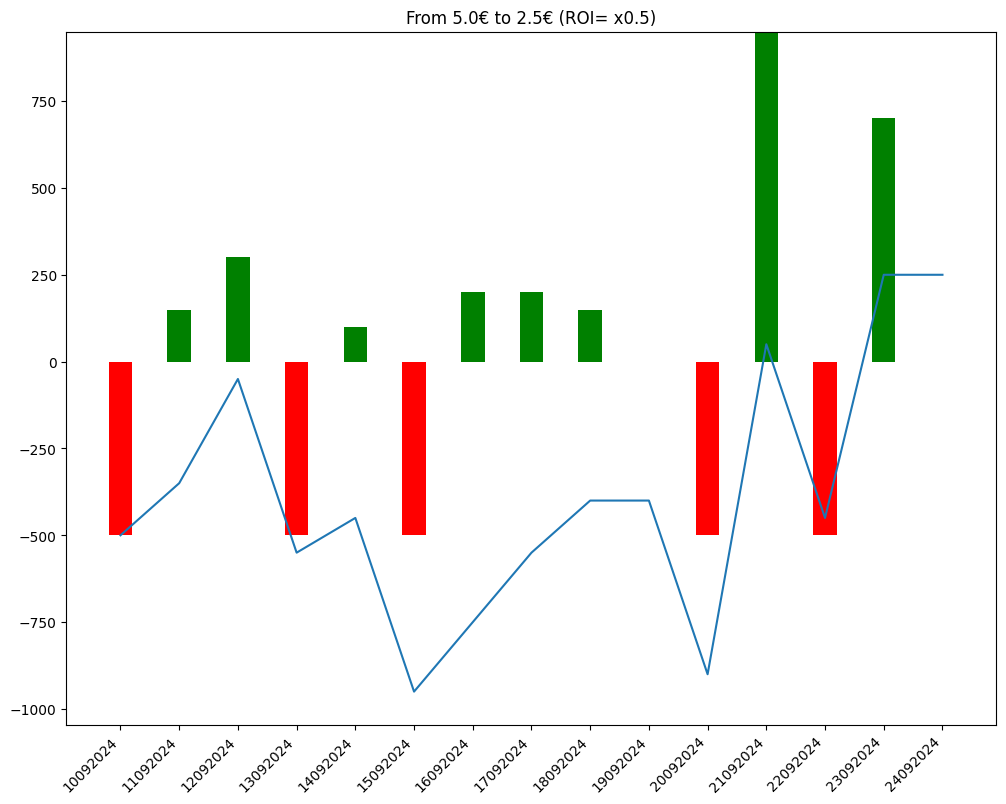
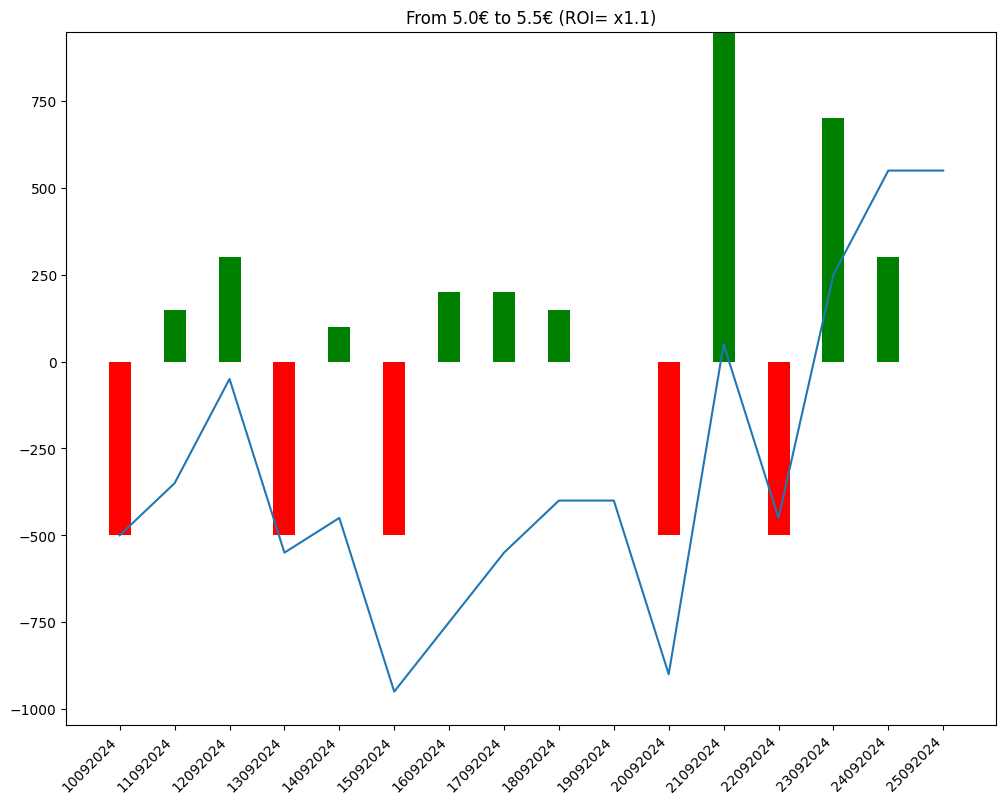
comment from python script

diff --git a/bethistory.html b/bethistory.html
@@ -86,7 +86,8 @@
             En observant la courbe 🤔, on peut avoir une idée visuelle de l'évolution des gains et ainsi évaluer le model utilisé 🧑🏫.
         </p>
         
-        <img src = "/candle.png" alt="candle chart"/><table><tr><td>Chevaux joués</td><td>Gains</td><td>URL Circuits</td></tr><tr><td>2 - MERANO</td><td>0</td><td><a href=https://www.pmu.fr/turf/24092024/r3/c3 target="_blank">https://www.pmu.fr/turf/24092024/r3/c3</a></td></tr>
+        <img src = "/candle.png" alt="candle chart"/><table><tr><td>Chevaux joués</td><td>Gains</td><td>URL Circuits</td></tr><tr><td>5 - WATHAB</td><td>0</td><td><a href=https://www.pmu.fr/turf/25092024/r4/c3 target="_blank">https://www.pmu.fr/turf/25092024/r4/c3</a></td></tr>
+<tr><td>2 - MERANO</td><td>+300</td><td><a href=https://www.pmu.fr/turf/24092024/r3/c3 target="_blank">https://www.pmu.fr/turf/24092024/r3/c3</a></td></tr>
 <tr><td>7 - COPAN</td><td>+700</td><td><a href=https://www.pmu.fr/turf/23092024/r3/c2 target="_blank">https://www.pmu.fr/turf/23092024/r3/c2</a></td></tr>
 <tr><td>7 - BRIGHT INHERITANCE</td><td>-500</td><td><a href=https://www.pmu.fr/turf/22092024/r2/c6 target="_blank">https://www.pmu.fr/turf/22092024/r2/c6</a></td></tr>
 <tr><td>10 - DARIUS CEN</td><td>+950</td><td><a href=https://www.pmu.fr/turf/21092024/r1/c1 target="_blank">https://www.pmu.fr/turf/21092024/r1/c1</a></td></tr>
